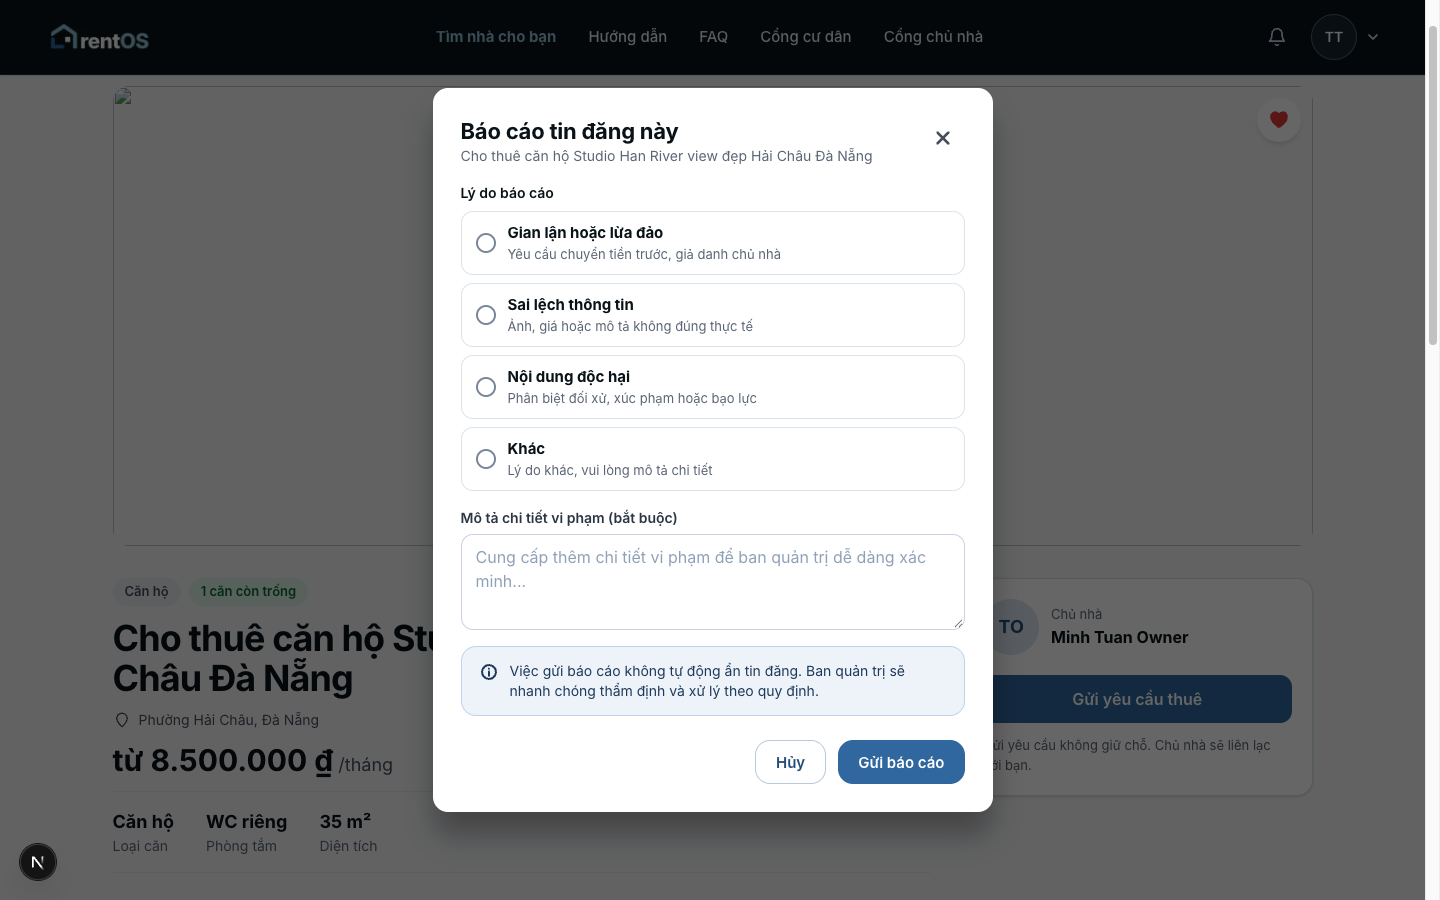
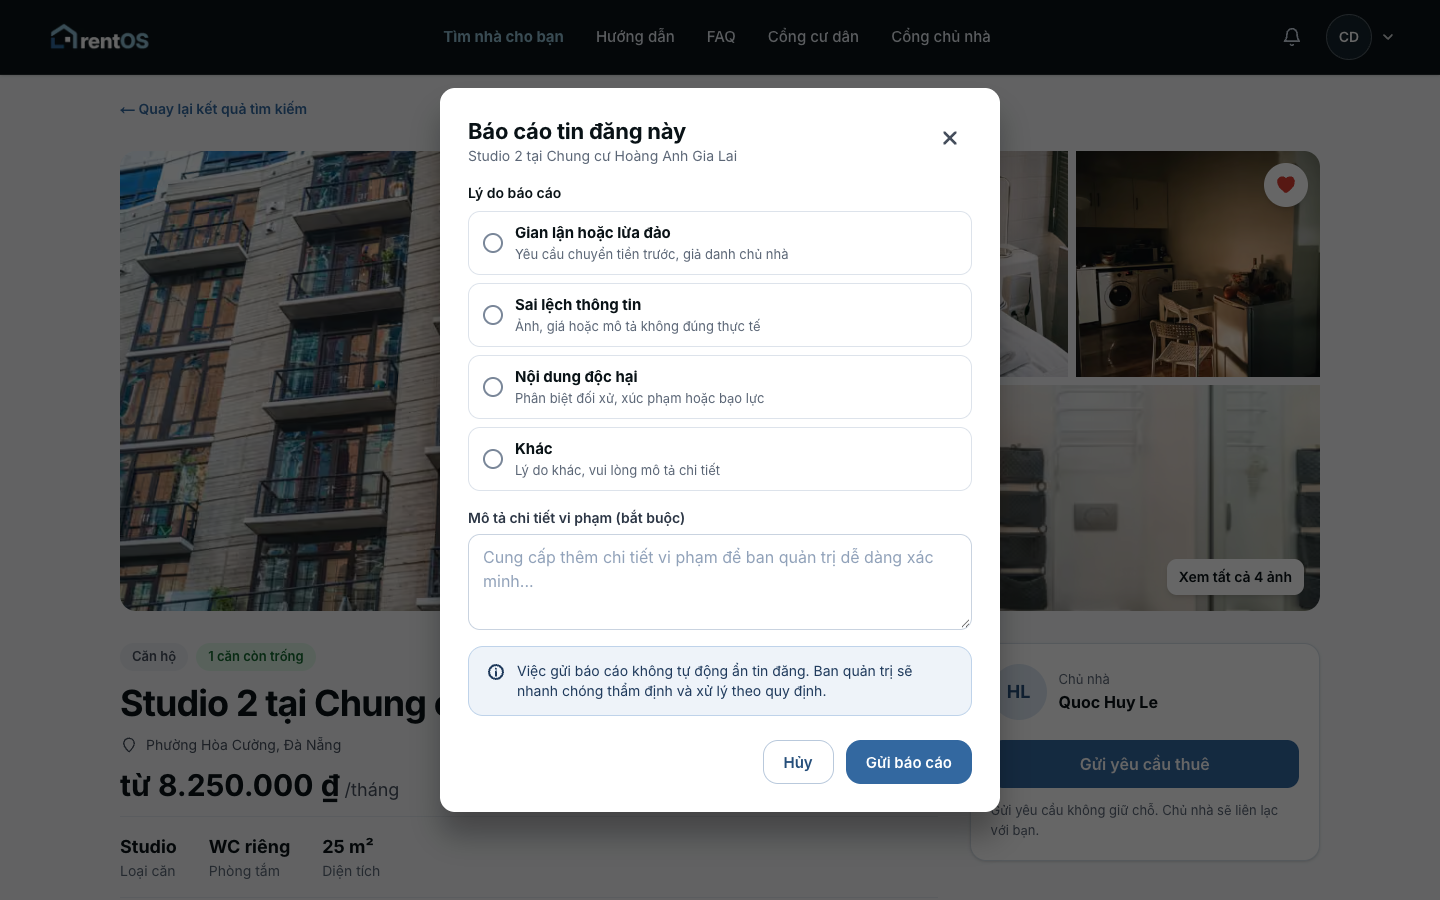
docs(rnt-16): re-capture UI evidence from the production build
Replaces 13 screenshots (no dev badge, 1440x900, seeded accounts, real
report/approve/publish/suspend flows) and records the audit; Lighthouse
runs are now labelled mobile/desktop.

diff --git a/docs/06-acceptance/evidence/ui-audit.md b/docs/06-acceptance/evidence/ui-audit.md
@@ -1,0 +1,46 @@
+# UI evidence audit (before re-capture)
+
+Capture rules for every replacement: production build (`next build && next start`, no Next dev badge), viewport 1440x900, same filename as the old image so existing links keep working, no real personal emails visible.
+
+| File | Page | Verdict | Problem found | Action |
+| --- | --- | --- | --- | --- |
+| 01-landing-home.png | `/` | Replace | Next dev badge; duplicate "Tìm nhà ngay!" CTA; weak eyebrow contrast | Recapture after hero fix |
+| 02-listings-search.png | `/listings` | Replace | Dev badge; card has no photo (grey placeholder); 1 result only | Recapture with seeded listings that have photos |
+| 03-listing-detail-report.png | `/listings/[id]` + report modal | Replace | Dev badge; broken gallery image behind modal | Fix image/URL, recapture |
+| 04-owner-dashboard.png | `/owner` | Replace | Dev badge; viewport 1920 (others 1440); highlighted KPI card without reason | Recapture at 1440x900 |
+| 05-owner-property-units.png | `/owner/properties/[id]` | Replace | Dev badge; viewport 1920; form cut off, no units shown | Recapture showing units/photos tab |
+| 06-owner-listing-pending.png | `/owner/listings/[id]` (pending) | Replace | Dev badge; back link touches the card; description without diacritics (seed data) | Recapture with clean seed text |
+| 06b-owner-listing-published.png | same, published | Replace | Dev badge; different width/scrollbar from 06 | Recapture, same viewport as 06 |
+| 08-tenant-dashboard.png | `/tenant` | Replace | Dev badge; KPI "0 hợp đồng" unit inconsistent with other cards | Recapture after KPI fix |
+| 09-tenant-reports-fr72.png | `/tenant/reports` | Replace | Dev badge; badge restyled by `StatusBadge` | Recapture |
+| 10-api-tokens-scopes.png | `/api-tokens` | Replace | Dev badge only | Recapture |
+| 11-admin-review-queue.png | `/admin/review-queue` | Replace | Dev "Insight" badge covers admin avatar; sidebar label wraps | Recapture |
+| 12-admin-reports-suspend.png | `/admin/reports` | Replace (required) | Badges wrapped onto 2 lines, filters uneven, heading inconsistent. Fixed by `StatusBadge` | Recapture |
+| 13-mail-telescope.png | `/telescope/mail` | Keep | Third-party UI, evidence is valid | Optional: add a slow-query entry |
+| 14-openapi-scramble.png | `/docs/api` | Replace | Overview only, shows no endpoint, bearer scheme or 409/422 example | Recapture on an expanded endpoint |
+| 15-lighthouse-rentos-20-30-56.png | production Lighthouse | Keep, relabel | Mobile run | State "mobile" in summary |
+| 16-lighthouse-rentos-20-32-00.png | production Lighthouse | Keep, relabel | Desktop run, not a repeat of 15 | State "desktop" in summary |
+
+## Missing evidence (new files)
+
+- 07-csrf-valid-and-rejected: a form submit that succeeds and one without the CSRF token that is rejected.
+- 17-token-401-revoked: a cookie-free request with a revoked token returning 401.
+- 18-netdata-dashboard / alert: CPU, memory, disk, network and a fired alert (T5d).
+- 19-coverage-backend / 20-coverage-frontend: coverage summaries (94.2% and 75.81%).
+- 21-admin-dashboard: `/admin`.
+- 22-erd: rendered ERD from `docs/07-architecture/database-schema.mmd`.
+
+## Pre-capture fixes (done)
+
+1. Broken gallery image: caused by the local seed library not being served; `fixtures:media-upload` confirmed all 108 objects, listing 50000000-...001 now shows photos.
+2. Hero duplicate CTA: left button now reads "Xem tất cả tin đăng".
+3. Tenant KPI: first card shows a plain number like the others.
+4. Seed data: `BaselineSeeder` (200 listings with photos); demo properties renamed to readable names.
+
+## Re-capture status (production build, 1440x900, seeded accounts)
+
+Recaptured: 01, 02, 03, 04, 05, 06, 06b, 08, 09, 10, 11, 12, 14.
+Kept: 13 (Telescope), 15 (Lighthouse mobile), 16 (Lighthouse desktop).
+Still missing: 07 CSRF, 17 revoked-token 401, 18 Netdata, 19/20 coverage, 21 admin dashboard, 22 ERD.
+
+Known leftovers: ui images 05/10 use demo data (property type "Nhà" for an apartment name; token has only `favourites:read`); the screenshots were taken with a puppeteer-driven Chrome, flows (report, approve, publish, resolve+suspend) were done through the real UI.

diff --git a/docs/08-project/final-project-summary.md b/docs/08-project/final-project-summary.md
@@ -152,10 +152,10 @@ Bảng dưới đây dùng đúng nhãn của đề bài gốc; chi tiết đầ
 | ![Telescope Mail](../06-acceptance/evidence/ui/13-mail-telescope.png) | ![Scramble OpenAPI](../06-acceptance/evidence/ui/14-openapi-scramble.png) |
 
 ### 7.4. Báo cáo Hiệu năng Lighthouse (Production `rentos.io.vn`)
-- **Lần đo 1 (`2026-11-25 20:30:56`):** Performance **94** · Accessibility **96** · Best Practices **96** · SEO **100**
-- **Lần đo 2 (`2026-11-25 20:32:00`):** Performance **100** · Accessibility **96** · Best Practices **96** · SEO **100**
+- **Lần đo 1 — mobile (`2026-11-25 20:30:56`):** Performance **94** · Accessibility **96** · Best Practices **96** · SEO **100**
+- **Lần đo 2 — desktop (`2026-11-25 20:32:00`):** Performance **100** · Accessibility **96** · Best Practices **96** · SEO **100**
 
-| Lighthouse Run 1 (Perf 94 / A11y 96 / BP 96 / SEO 100) | Lighthouse Run 2 (Perf 100 / A11y 96 / BP 96 / SEO 100) |
+| Lighthouse mobile (Perf 94 / A11y 96 / BP 96 / SEO 100) | Lighthouse desktop (Perf 100 / A11y 96 / BP 96 / SEO 100) |
 | :---: | :---: |
 | ![Lighthouse 20-30-56](../06-acceptance/evidence/ui/15-lighthouse-rentos-20-30-56.png) | ![Lighthouse 20-32-00](../06-acceptance/evidence/ui/16-lighthouse-rentos-20-32-00.png) |
 
